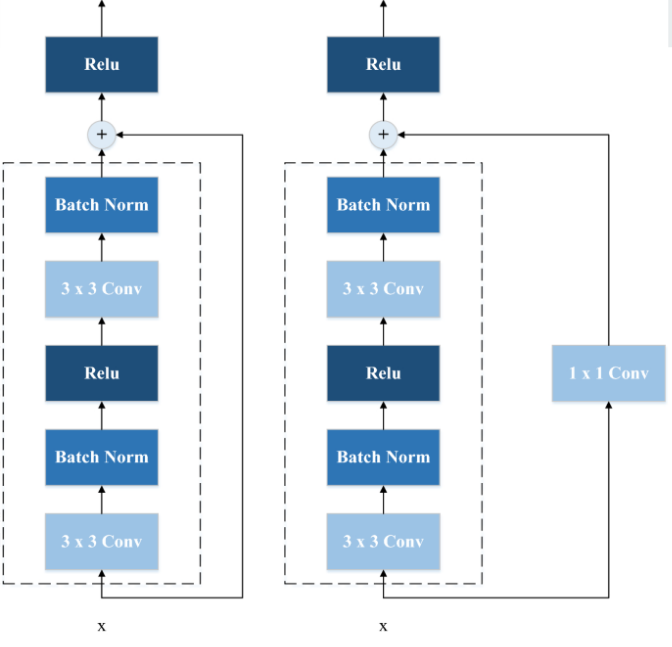
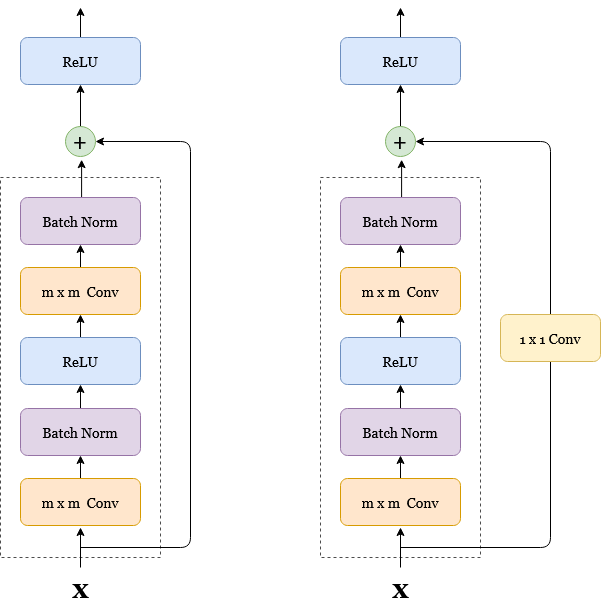
Reacreated some of the images

diff --git a/Residual Networks/content.md b/Residual Networks/content.md
@@ -48,7 +48,7 @@ Eine weitere Erklärung ist das Problem von **vanishing und exploding gradients*
 
 ![Tiefe Netze -> zumindest die gleiche Performance wie weniger tiefe?](images/AB.png){ width=65% }
 
-Es hat stattdessen viel mehr mit dem **Optimierungsmechanismus** zu tun, und damit, wie das **Netzwerk initialisiert** wird. Theoretisch sollte es nämlich so sein, dass ein tieferes Netz A mit n layern wenigstens genau so gute Ergebnisse erzielt wie ein gleiches, nur weniger tiefes Netz B mit m layern. Dies kann man sich auf folgende Weise klarmachen: das tiefere Netz A könnte in seinen ersten layern das gleiche lernen wie B, somit wären die ersten m layer die gleichen wie bei B. Bei allen folgenden layern könnte A die Identitätsfunktion lernen und würde damit die exakt gleichen Ergebnisse liefern wie B.
+Es hat stattdessen viel mehr mit dem **Optimierungsmechanismus** zu tun, und damit, wie das **Netzwerk initialisiert** wird. Theoretisch sollte es nämlich so sein, dass ein tieferes Netz B mit n layern wenigstens genau so gute Ergebnisse erzielt wie ein gleiches, nur weniger tiefes Netz A mit m < n layern. Dies kann man sich auf folgende Weise klarmachen: das tiefere Netz B könnte in seinen ersten layern das gleiche lernen wie A, somit wären die ersten m layer die gleichen wie bei A. Bei allen folgenden layern könnte B die Identitätsfunktion lernen und würde damit die exakt gleichen Ergebnisse liefern wie A.
 
 Doch ganau hier liegt das Problem - **die Identität zu lernen ist in der Regel nur sehr schwierig**. Bei der Initialisierung werden die Parameter nämlich in der Regel aus einer Gaußverteilung mit Mittelwert 0 gezogen. Das heißt, für einen 'solver', also Lösealgorithmus, ist es relativ einfach, die Nullfunktion anzunähern, da die Parameter bereits relativ nahe um die 0 verteilt sind. Es ist für ihn jedoch schwer, die Identität zu lernen, genauer gesagt genauso schwer wie jede andere Funktion.  
 Ein Beispiel: bei einem linearen Filter wäre die Identitätsfunktion
